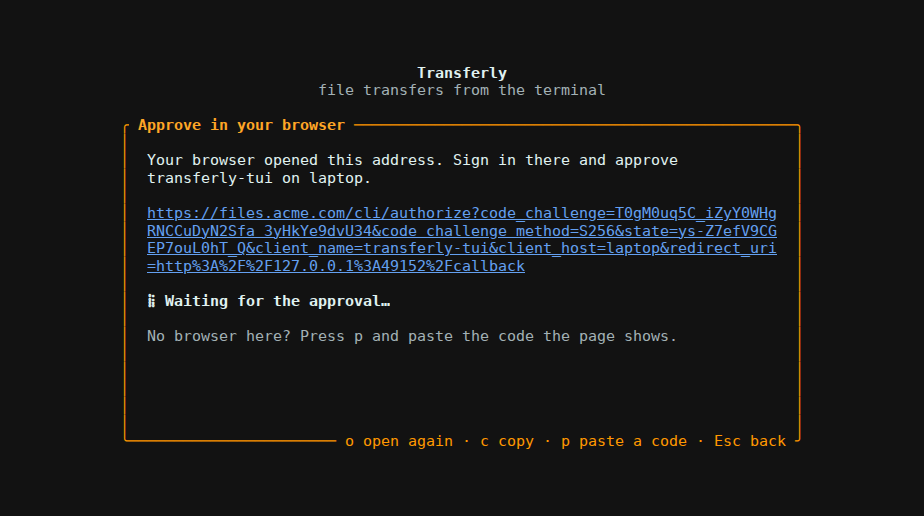
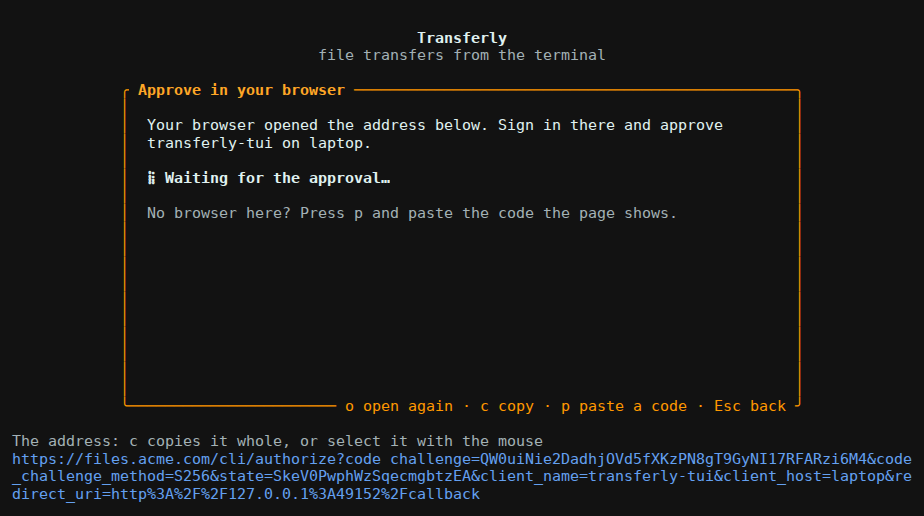
fix(tui): let the approval address be copied with the mouse
The address to approve was wrapped inside the bordered card, so a mouse
selection copied the borders and padding with it and the web refused the
link. The address now runs across the bottom of the screen from its
first column with nothing around it, and the approval page drops the
whitespace a copy may still carry in the challenge, the state and the
redirect.

Claude-Session: https://claude.ai/code/session_0196f8WTsUp7CzUs7mYUYZPx

diff --git a/frontend/src/features/cli/request.test.ts b/frontend/src/features/cli/request.test.ts
@@ -15,6 +15,7 @@ function request(changes: Partial<CliAuthorizeRequest> = {}): CliAuthorizeReques
  *
  * Scenarios:
  * - search values the router read as numbers or booleans become text, and malformed ones become empty
+ * - spaces and line breaks copied with an address cut over several lines are dropped from the challenge, the state and the redirect
  * - only http loopback callbacks on 127.0.0.1 or [::1] with a port and nothing else count as the address of the terminal
  * - a request needs an S256 challenge of 43 base64url characters, a client name, and no redirect or a loopback callback
  * - the callback carries the answer and the state; without a state it carries the answer only
@@ -29,6 +30,15 @@ describe('cli request', () => {
       client_host: 'true',
     })
     expect(cliAuthorizeSearch.parse({ code_challenge: { x: 1 }, client_name: ['a'], redirect_uri: null })).toEqual({ code_challenge: '', client_name: '', redirect_uri: undefined })
+    expect(
+      cliAuthorizeSearch.parse({
+        code_challenge: `${challenge.slice(0, 20)}\n  ${challenge.slice(20)}`,
+        state: 'ab \r\ncd',
+        redirect_uri: 'http://127.0.0.1:49152/ callback',
+        client_name: 'transferly-tui',
+        client_host: 'my laptop',
+      }),
+    ).toEqual({ code_challenge: challenge, state: 'abcd', redirect_uri: 'http://127.0.0.1:49152/callback', client_name: 'transferly-tui', client_host: 'my laptop' })
   })
 
   it.each(['http://127.0.0.1:49152/callback', 'http://[::1]:1/callback'])('accepts the callback %s', (address) => {

diff --git a/frontend/src/features/cli/request.ts b/frontend/src/features/cli/request.ts
@@ -7,15 +7,21 @@ const challengeLength = 43
 const text = z.preprocess((value) => (typeof value === 'number' || typeof value === 'boolean' ? String(value) : value), z.string())
 
 /**
+ * Text that never holds whitespace, such as a challenge, a state or an address: spaces and line breaks a person copied from a terminal
+ * along with a long address cut over several lines are dropped, so the request still reads as it was sent.
+ */
+const compact = text.transform((value) => value.replace(/\s+/g, ''))
+
+/**
  * Search parameters of the approval page, named as in OAuth 2.0 (ADR-0029): the PKCE challenge and its method, the loopback address
  * to send the answer to, the state the terminal client checks, and what the client declares about itself. Malformed values become
  * empty, so the page can say the request is not valid instead of failing.
  */
 export const cliAuthorizeSearch = z.object({
-  code_challenge: text.catch(''),
+  code_challenge: compact.catch(''),
   code_challenge_method: text.optional().catch(undefined),
-  redirect_uri: text.optional().catch(undefined),
-  state: text.optional().catch(undefined),
+  redirect_uri: compact.optional().catch(undefined),
+  state: compact.optional().catch(undefined),
   client_name: text.catch(''),
   client_host: text.optional().catch(undefined),
 })

diff --git a/tui/src/ui/app.rs b/tui/src/ui/app.rs
@@ -4,7 +4,7 @@
 use crossterm::event::{KeyCode, KeyEvent, KeyEventKind, KeyModifiers};
 use ratatui::Frame;
 use ratatui::layout::{Constraint, Layout};
-use ratatui::style::{Modifier, Stylize};
+use ratatui::style::Stylize;
 use ratatui::text::Line;
 use ratatui::widgets::{Paragraph, Wrap};
 use url::Url;
@@ -13,7 +13,7 @@ use super::home::{Ask, Home, Reply, Session};
 use super::input::Input;
 use super::look::Look;
 use super::theme::{ColorMode, Palette};
-use super::widgets::{background, card, error_line, field, highlight};
+use super::widgets::{address, address_rows, background, card, error_line, field, highlight};
 use crate::config::{self, Profile, Settings};
 use crate::i18n::{Language, Messages};
 use crate::login::{self, Answer, Pkce};
@@ -668,16 +668,38 @@ impl App {
     }
 
     /// The card of a sign-in screen, with the title and keys of its messages; returns its inside.
-    fn card(&self, frame: &mut Frame, screen: &str) -> ratatui::layout::Rect {
+    fn card(
+        &self,
+        frame: &mut Frame,
+        area: ratatui::layout::Rect,
+        screen: &str,
+    ) -> ratatui::layout::Rect {
         let m = &self.look.messages;
         let (name, tagline) = (m.get("app.name"), m.get("app.tagline"));
         card(
             frame,
+            area,
             &self.look.palette,
             (&name, &tagline),
             &m.get(&format!("{screen}.title")),
             &m.get(&format!("{screen}.keys")),
         )
+    }
+
+    /// Draws an address across the bottom of the screen, to copy with the mouse, and returns the rest of the screen.
+    fn with_address(&self, frame: &mut Frame, url: &str, label: &str) -> ratatui::layout::Rect {
+        let area = frame.area();
+        let rows = address_rows(url, area.width);
+        let [rest, bottom] =
+            Layout::vertical([Constraint::Fill(1), Constraint::Length(rows)]).areas(area);
+        address(
+            frame,
+            bottom,
+            &self.look.messages.get(label),
+            url,
+            &self.look.palette,
+        );
+        rest
     }
 
     /// The frame of the spinner.
@@ -695,7 +717,7 @@ impl App {
         error: Option<&str>,
     ) {
         let (m, palette) = (&self.look.messages, &self.look.palette);
-        let inside = self.card(frame, "server");
+        let inside = self.card(frame, frame.area(), "server");
         let [address, status, list] = Layout::vertical([
             Constraint::Length(3),
             Constraint::Length(2),
@@ -753,7 +775,8 @@ impl App {
         exchanging: bool,
     ) {
         let (m, palette) = (&self.look.messages, &self.look.palette);
-        let inside = self.card(frame, "approval");
+        let screen = self.with_address(frame, url, "approval.address");
+        let inside = self.card(frame, screen, "approval");
         let intro = m.fill(
             if opened {
                 "approval.opened"
@@ -769,10 +792,6 @@ impl App {
         });
         let mut lines = vec![
             Line::from(intro),
-            Line::default(),
-            Line::from(url.to_owned())
-                .fg(palette.info)
-                .add_modifier(Modifier::UNDERLINED),
             Line::default(),
             Line::from(format!("{} {waiting}", self.spinner())).bold(),
             Line::default(),
@@ -794,7 +813,8 @@ impl App {
         error: Option<&str>,
     ) {
         let (m, palette) = (&self.look.messages, &self.look.palette);
-        let inside = self.card(frame, "paste");
+        let screen = self.with_address(frame, url, "paste.address");
+        let inside = self.card(frame, screen, "paste");
         let [text, code, note] = Layout::vertical([
             Constraint::Length(6),
             Constraint::Length(3),
@@ -803,9 +823,6 @@ impl App {
         .areas(inside);
         let lines = vec![
             Line::from(m.get("paste.intro")),
-            Line::from(url.to_owned())
-                .fg(palette.info)
-                .add_modifier(Modifier::UNDERLINED),
             Line::from(m.get("paste.then")),
         ];
         frame.render_widget(Paragraph::new(lines).wrap(Wrap { trim: false }), text);

diff --git a/tui/src/ui/tests.rs b/tui/src/ui/tests.rs
@@ -114,12 +114,12 @@ fn signs_in_through_the_browser() {
             && address.contains("redirect_uri=")
             && address.contains("client_host=laptop")
     );
-    assert!(screen_text(&app).contains("Open this address in your browser"));
+    assert!(screen_text(&app).contains("Open the address below in your browser"));
     app.handle(Event::BrowserOpened(true));
     app.handle(Event::Tick);
     let text = screen_text(&app);
     assert!(
-        text.contains("Your browser opened this address")
+        text.contains("Your browser opened the address below")
             && text.contains("Waiting for the approval")
     );
 
@@ -629,4 +629,46 @@ pub(super) fn draw_on(
             .expect("a test backend");
         Ok(())
     }
+}
+
+/// The address to approve is drawn across the bottom of the screen from its first column, with nothing around it, so selecting it
+/// with the mouse copies the address and line breaks only; the screen to paste a code shows it the same way.
+#[test]
+fn draws_the_address_to_copy() {
+    let mut app = App::new(setup_with(vec![], true));
+    type_text(&mut app, "files.example.com");
+    app.handle(key(KeyCode::Enter));
+    app.handle(Event::Probed(Ok(())));
+    app.handle(Event::Listening(Ok(
+        "http://127.0.0.1:5000/callback".to_owned()
+    )));
+    let mut url = String::new();
+    if let Screen::Approval { url: shown, .. } = app.screen() {
+        url.clone_from(shown);
+    }
+    for (screen, label) in [(screen_text(&app), "The address: c copies it whole"), {
+        app.handle(key(KeyCode::Char('p')));
+        (screen_text(&app), "The address, to select with the mouse")
+    }] {
+        let rows: Vec<&str> = screen.lines().collect();
+        let at = rows
+            .iter()
+            .position(|row| row.starts_with(label))
+            .expect("the label of the address");
+        let copied: String = rows[at + 1..].concat();
+        assert!(
+            copied.starts_with("https://files.example.com/cli/authorize?code_challenge="),
+            "{copied}"
+        );
+        assert!(
+            copied.contains("client_name=transferly-tui") && !copied.contains([' ', '│']),
+            "{copied}"
+        );
+    }
+    assert!(
+        screen_text(&app)
+            .lines()
+            .any(|row| url.starts_with(row) && row.len() > 80)
+    );
+    assert!(url.contains("redirect_uri="));
 }

diff --git a/tui/src/ui/widgets.rs b/tui/src/ui/widgets.rs
@@ -50,12 +50,13 @@ pub fn background(frame: &mut Frame, palette: &Palette) {
 /// The card of the sign-in screens: the name and tagline above a focused panel with its keys at the bottom; returns its inside.
 pub fn card(
     frame: &mut Frame,
+    area: Rect,
     palette: &Palette,
     heading: (&str, &str),
     title: &str,
     keys: &str,
 ) -> Rect {
-    let area = centered(frame.area(), 76, 22);
+    let area = centered(area, 76, 22);
     let [head, body] = Layout::vertical([Constraint::Length(3), Constraint::Fill(1)]).areas(area);
     frame.render_widget(
         Paragraph::new(vec![
@@ -92,6 +93,27 @@ pub fn field(
         let column = u16::try_from(input.cursor() - skip).unwrap_or(u16::MAX);
         frame.set_cursor_position(Position::new(inside.x.saturating_add(column), inside.y));
     }
+}
+
+/// How many rows an address takes at a width, with its label above it.
+#[must_use]
+pub fn address_rows(url: &str, width: u16) -> u16 {
+    let width = usize::from(width.max(1));
+    u16::try_from(url.chars().count().div_ceil(width) + 1).unwrap_or(u16::MAX)
+}
+
+/// A long address to copy with the mouse: its label, then the address cut at the width of the area, from its first column and with
+/// nothing around it, so a selection copies only the address and line breaks, which browsers drop when it is pasted.
+pub fn address(frame: &mut Frame, area: Rect, label: &str, url: &str, palette: &Palette) {
+    let width = usize::from(area.width.max(1));
+    let chars: Vec<char> = url.chars().collect();
+    let mut lines = vec![Line::from(label.to_owned()).fg(palette.muted)];
+    lines.extend(
+        chars
+            .chunks(width)
+            .map(|piece| Line::from(piece.iter().collect::<String>()).fg(palette.info)),
+    );
+    frame.render_widget(Paragraph::new(lines), area);
 }
 
 /// A popup over the screen: the area cleared, a focused panel with its title and its keys at the bottom; returns its inside.
@@ -183,6 +205,7 @@ mod tests {
             background(frame, &palette);
             let inside = card(
                 frame,
+                frame.area(),
                 &palette,
                 ("Transferly", "tagline"),
                 "Sign in",

diff --git a/tui/src/ui/home_tests.rs b/tui/src/ui/home_tests.rs
@@ -189,8 +189,8 @@ fn loads_a_session() {
         (look.messages.language(), look.theme.as_str()),
         (Language::Spanish, "nord")
     );
-    nothing(&
-        home.reply(Reply::Version(Ok("dev".to_owned())), &mut look),
+    nothing(
+        &home.reply(Reply::Version(Ok("dev".to_owned())), &mut look),
         "",
     );
     assert!(!draw(&home, &look, 120, 30).contains("dev,"));
@@ -390,8 +390,8 @@ fn fits_the_window() {
 fn unlocks_the_vault() {
     let mut look = look();
     let mut home = loaded(&mut look, Some((true, false)));
-    nothing(&
-        home.reply(Reply::Unlocked(Ok(())), &mut look),
+    nothing(
+        &home.reply(Reply::Unlocked(Ok(())), &mut look),
         "an answer nobody waits for",
     );
     home.key(key(KeyCode::Down), &mut look);
@@ -632,8 +632,8 @@ fn chooses_from_lists() {
 
     let (mut empty, _) = Home::new(session(), "ana@example.com");
     command(&mut empty, &mut look, "workspace");
-    nothing(&
-        empty.key(key(KeyCode::Enter), &mut look),
+    nothing(
+        &empty.key(key(KeyCode::Enter), &mut look),
         "nothing to choose",
     );
 }
